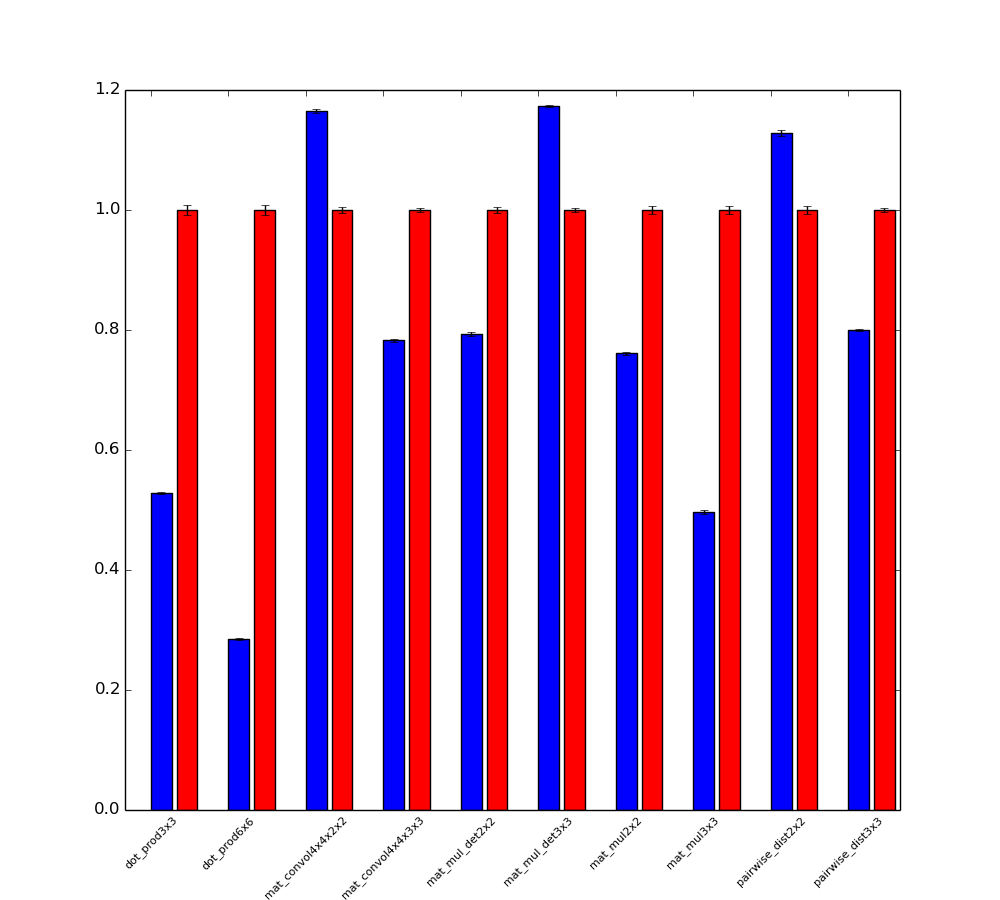
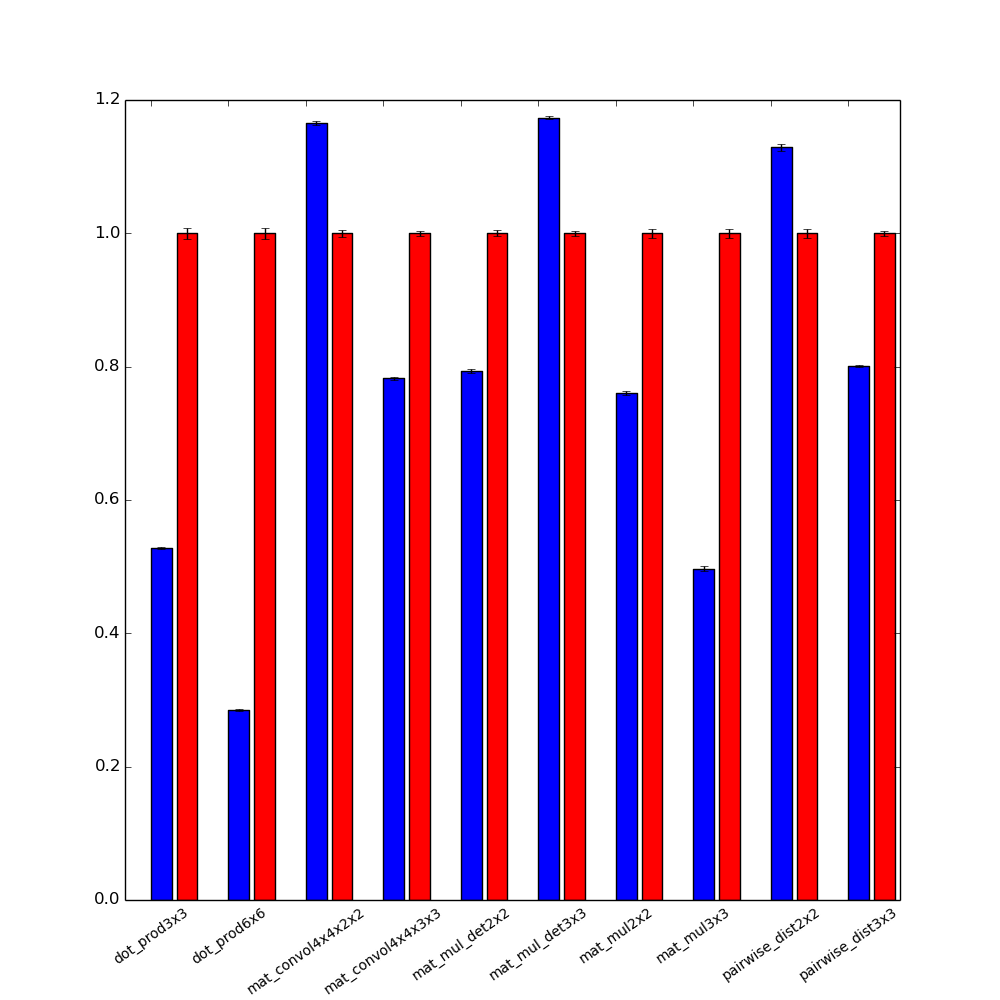
changed font size on graph

diff --git a/vector_synth/bfv_backend/generateGraphs.py b/vector_synth/bfv_backend/generateGraphs.py
@@ -7,7 +7,7 @@ import numpy as np
 import scipy.stats as st
 from matplotlib.pyplot import figure
 
-folder = 'DataPartiallyReplicated'
+folder = 'DataUnreplicated'
 
 vec_run1 = []
 scal_run1 = []
@@ -264,7 +264,7 @@ int39 = st.t.interval(alpha=0.95, df=len(vec_run10)-1, loc=np.mean(vec_run10), s
 pd3x3_scal_run_avg = average(scal_run10)
 int40 = st.t.interval(alpha=0.95, df=len(scal_run10)-1, loc=np.mean(scal_run10), scale=st.sem(scal_run10))
 
-figure(figsize=(10, 9), dpi=80)
+figure(figsize=(10, 10), dpi=80)
 plt.bar(1, height = float(dp3x3_vec_encrun_avg)/dp3x3_scal_encrun_avg, color = 'blue', yerr = (int1[1] - int1[0]) / (2 * dp3x3_scal_encrun_avg), ecolor = 'black', label = 'vector')
 plt.bar(2, height = 1, color = 'red', yerr = (int2[1] - int2[0]) / (2 * dp3x3_scal_encrun_avg), ecolor = 'black', label = 'scalar')
 
@@ -295,11 +295,11 @@ plt.bar(26, height = 1, color = 'red', yerr = (int34[1] - int34[0]) / (2 * pd2x2
 plt.bar(28, height = float(pd3x3_vec_encrun_avg)/pd3x3_scal_encrun_avg, color = 'blue', yerr = (int37[1] - int37[0]) / (2 * pd3x3_scal_encrun_avg), ecolor = 'black')
 plt.bar(29, height = 1, color = 'red', yerr = (int38[1] - int38[0]) / (2 * pd3x3_scal_encrun_avg), ecolor = 'black')
 ax = plt.gca()
-plt.xticks([1,4,7,10,13,16,19,22,25,28],["dot_prod3x3", "dot_prod6x6", "mat_convol4x4x2x2", "mat_convol4x4x3x3", "mat_mul_det2x2", "mat_mul_det3x3", "mat_mul2x2", "mat_mul3x3", "pairwise_dist2x2", "pairwise_dist3x3"], rotation = 45, fontsize = 8)
+plt.xticks([1,4,7,10,13,16,19,22,25,28],["dot_prod3x3", "dot_prod6x6", "mat_convol4x4x2x2", "mat_convol4x4x3x3", "mat_mul_det2x2", "mat_mul_det3x3", "mat_mul2x2", "mat_mul3x3", "pairwise_dist2x2", "pairwise_dist3x3"], rotation = 35, fontsize = 10)
 #leg = ax.legend(loc = 'upper left')
 plt.show()
 
-figure(figsize=(10, 9), dpi=80)
+figure(figsize=(10, 10), dpi=80)
 plt.bar(1, height = float(dp3x3_vec_run_avg)/dp3x3_scal_run_avg, color = 'blue', yerr = (int3[1] - int3[0]) / (2 * dp3x3_scal_run_avg), ecolor = 'black', label = 'vector')
 plt.bar(2, height = 1, color = 'red', yerr = (int4[1] - int4[0]) / (2 * dp3x3_scal_run_avg), ecolor = 'black', label = 'scalar')
 
@@ -330,6 +330,6 @@ plt.bar(26, height = 1, color = 'red', yerr = (int36[1] - int36[0]) / (2 * pd2x2
 plt.bar(28, height = float(pd3x3_vec_run_avg)/pd3x3_scal_run_avg, color = 'blue', yerr = (int39[1] - int39[0]) / (2 * pd3x3_scal_run_avg), ecolor = 'black')
 plt.bar(29, height = 1, color = 'red', yerr = (int40[1] - int40[0]) / (2 * pd3x3_scal_run_avg), ecolor = 'black')
 ax = plt.gca()
-plt.xticks([1,4,7,10,13,16,19,22,25,28],["dot_prod3x3", "dot_prod6x6", "mat_convol4x4x2x2", "mat_convol4x4x3x3", "mat_mul_det2x2", "mat_mul_det3x3", "mat_mul2x2", "mat_mul3x3", "pairwise_dist2x2", "pairwise_dist3x3"], rotation = 45, fontsize = 8)
+plt.xticks([1,4,7,10,13,16,19,22,25,28],["dot_prod3x3", "dot_prod6x6", "mat_convol4x4x2x2", "mat_convol4x4x3x3", "mat_mul_det2x2", "mat_mul_det3x3", "mat_mul2x2", "mat_mul3x3", "pairwise_dist2x2", "pairwise_dist3x3"], rotation = 35, fontsize = 10)
 #leg = ax.legend(loc = 'upper left')
 plt.show()
